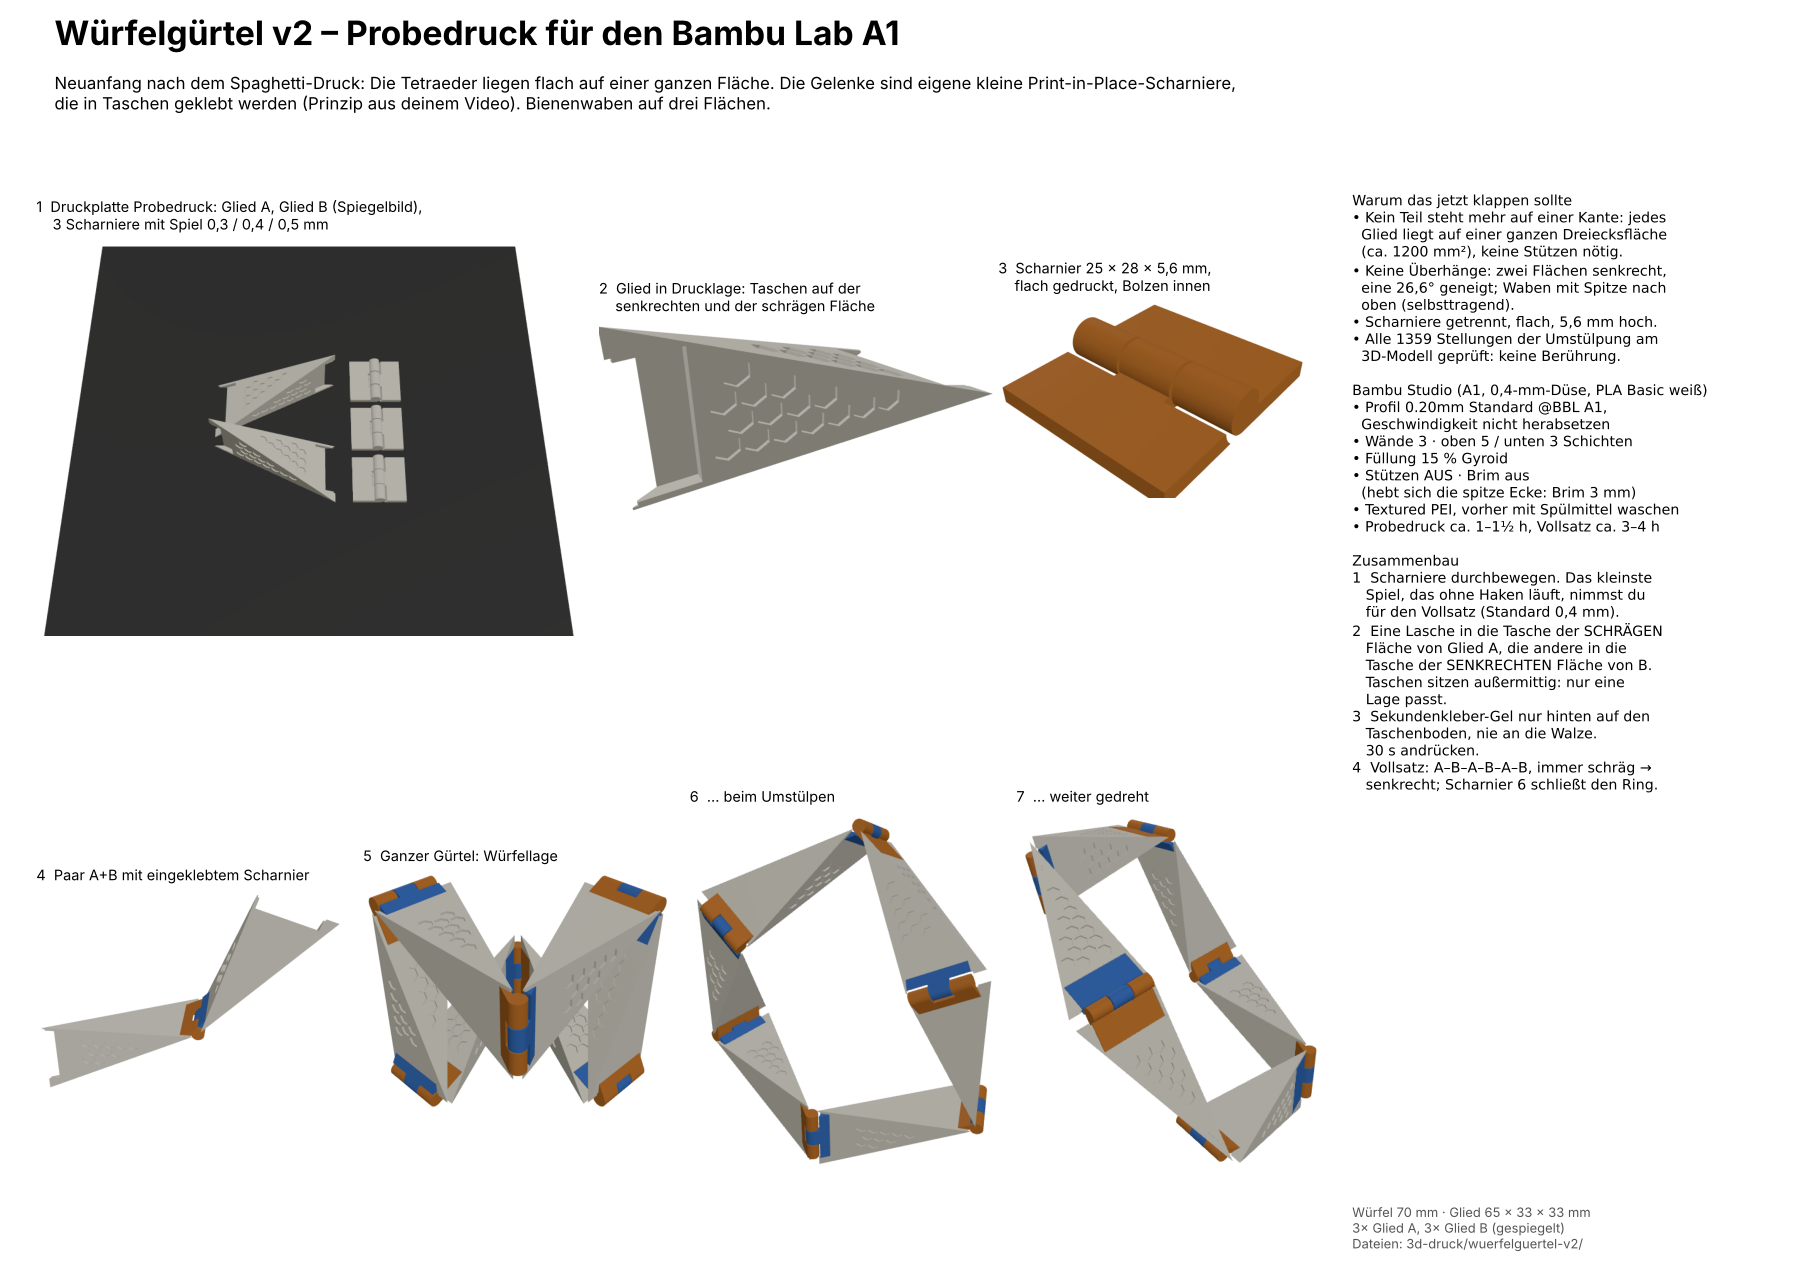
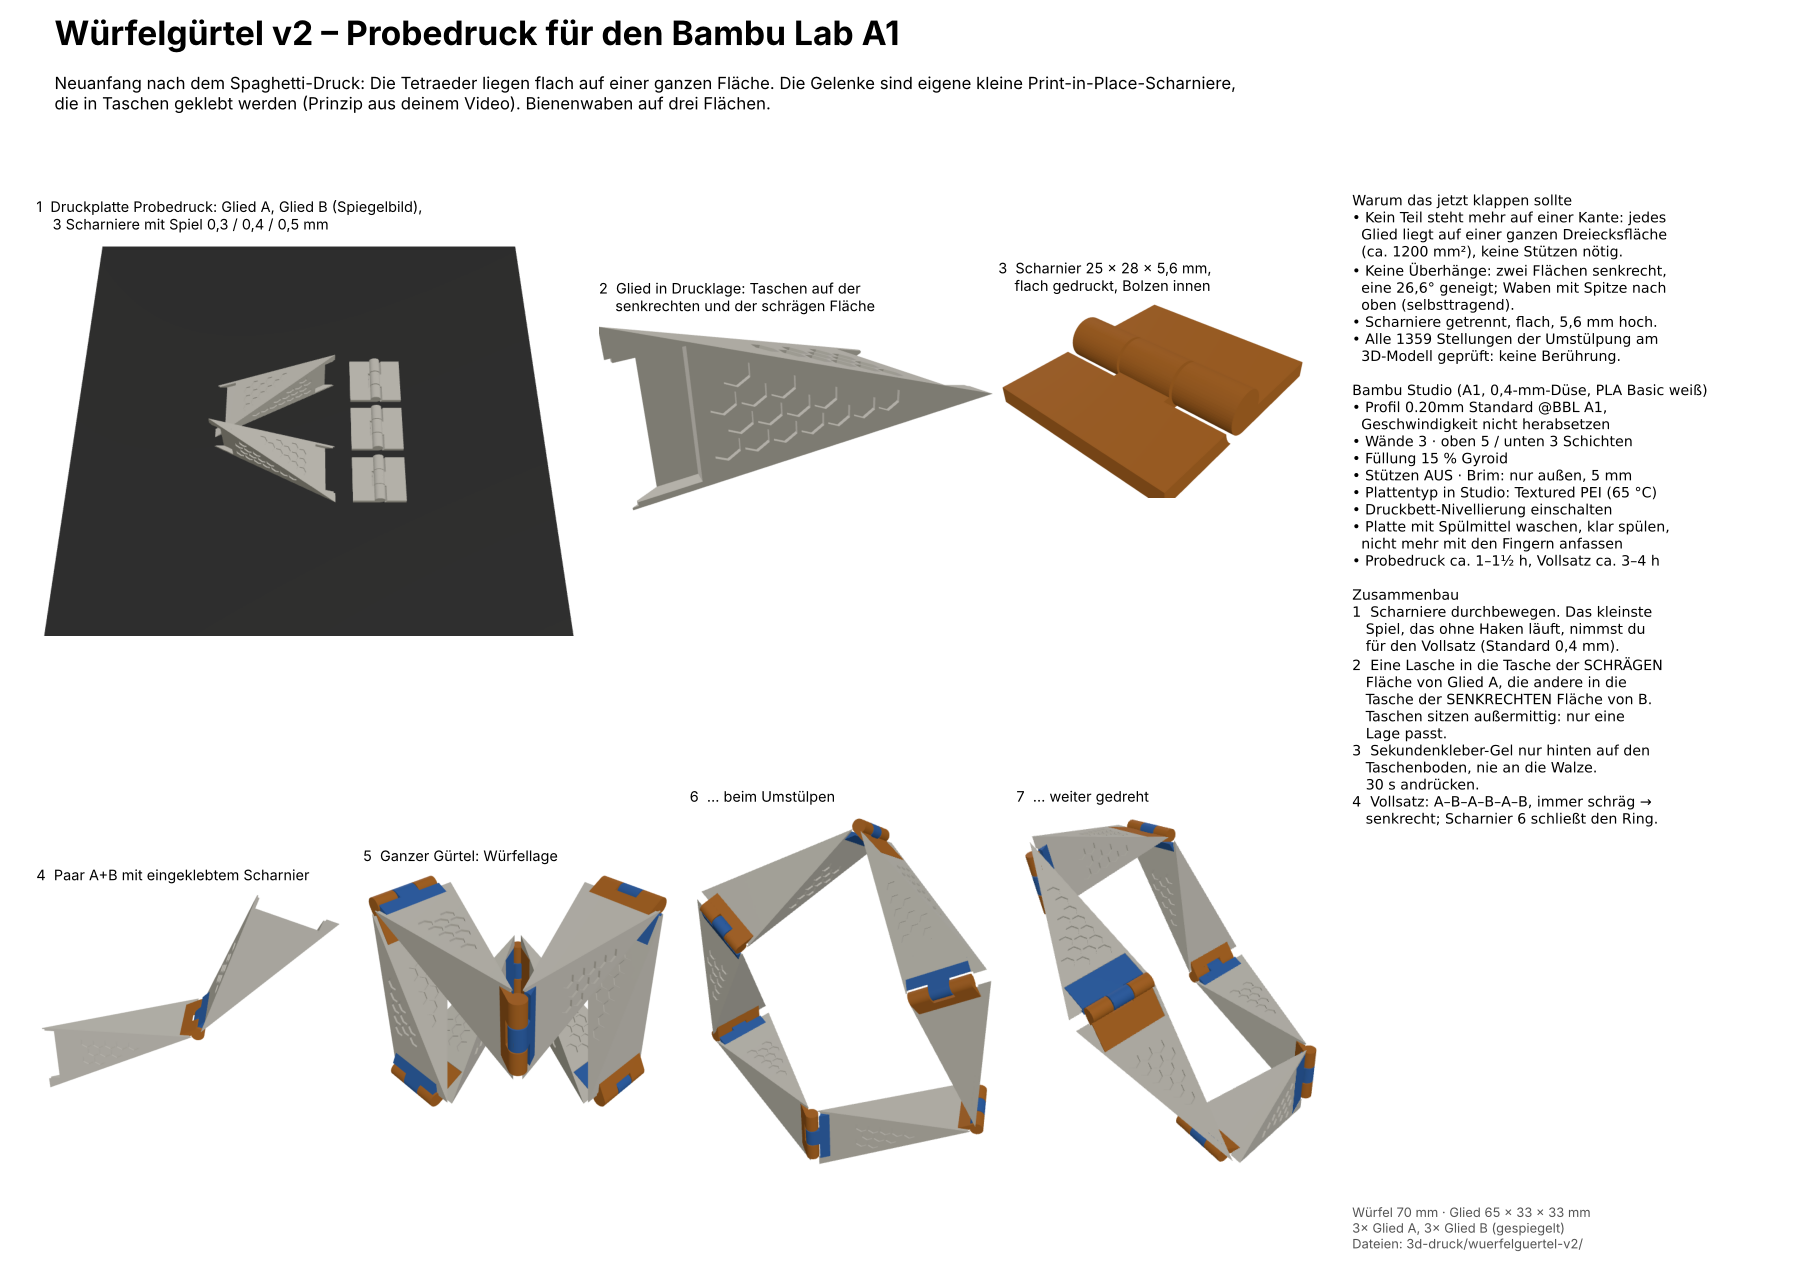
Wuerfelguertel v2: Brim und Plattenhaftung in Anleitung ergaenzt
Claude-Session: https://claude.ai/code/session_015g7snZHt2UwVRXLEPKvFNA

Changed region(s): [[0.7405, 0.3419, 0.9256, 0.6527]]

diff --git a/umstuelpung/3d-druck/wuerfelguertel-v2/LIESMICH-Probedruck.md b/umstuelpung/3d-druck/wuerfelguertel-v2/LIESMICH-Probedruck.md
@@ -21,8 +21,11 @@ Maße: Würfelkante 70 mm, Glied 65 × 33 × 33 mm, Scharnier 25 × 28 × 5,6 mm
 
 - Profil **0.20mm Standard @BBL A1**. Geschwindigkeit nicht herabsetzen.
 - Wände 3, Deckschichten oben 5, unten 3, Füllung 15 % Gyroid
-- **Stützen aus.** Brim aus. Löst sich die spitze Ecke vom Bett, nimm Brim 3 mm.
-- Textured-PEI-Platte, vorher mit Spülmittel waschen
+- **Stützen aus.** **Brim: „Nur äußerer Rand“, 5 mm** (nach dem ersten Fehldruck: die spitzen Ecken und die kleinen Scharniere lösen sich sonst)
+- In Bambu Studio als Plattentyp **Textured PEI Plate** wählen (PLA: Bett 65 °C). Bei „Cool Plate“ bleibt das Bett zu kalt.
+- Im Druckdialog **Druckbett-Nivellierung** einschalten
+- Platte reinigen: warmes Wasser mit Spülmittel (keine Handseife), weiche Bürste, gründlich klar spülen,
+  mit fusselfreiem Papier trocknen, danach nicht mehr mit den Fingern anfassen. Zwischen den Drucken mit Isopropanol abwischen.
 - Die STL-Dateien liegen bereits richtig herum. Nicht drehen.
 - Druckzeit: Probedruck ca. 1 bis 1½ h, Vollsatz ca. 3 bis 4 h. Bambu Studio zeigt die genaue Zeit.
 
